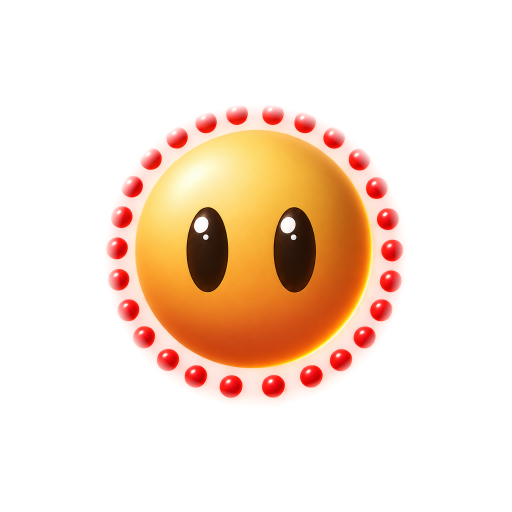
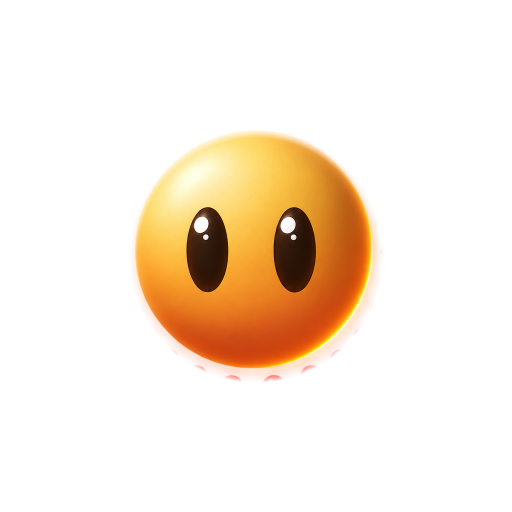
sun: four layers, and the thinking before the spending
'בוא נחשוב במסודר לפני שנותנים ל higg לעבוד עליהם'

THE DISTINCTION THAT DECIDES WHERE THE CREDITS GO: a rendered animation is a
FILM. It plays the same every time, cannot know what the person just did, and
cannot be interrupted without a cut. Code moving the layers we already have can
respond, lag, be interrupted, and point at what was touched.

His four ideas split straight down that line and three fall on the free side:

  rings trailing him   RESPONSIVE. What they do depends on what the body is
                       doing now, which depends on what the user did. And it is
                       not a delay you commission - it is one number in a
                       spring. The body chases the pointer, ring 1 chases the
                       BODY, ring 2 chases ring 1. Nothing is told to wait.
  thinking, each ring
  turning its own way  A fixed loop, so it could be rendered - but CSS does it
                       in four lines AND it can start and stop with the real
                       thinking instead of a timer.
  tapping him          Responsive by definition.
  coming out of a
  place on the page    A fixed sequence with no dependence on the user. THE ONE
                       WORTH PAYING FOR.

THE RENDER CUTS INTO FOUR LAYERS and the boundaries are measured, not chosen.
Sampling a whole circle at each radius of sun-30 gives peaks at 278, 335 and 396
with troughs between; the cuts at 245, 311, 365 and 430 fall in the troughs. The
[…]

Changed region(s): [[0.1875, 0.1875, 0.8125, 0.7812]]

diff --git a/dev/look/sun-plan.html b/dev/look/sun-plan.html
@@ -1,0 +1,256 @@
+<!doctype html>
+<html lang="he" dir="rtl">
+<meta charset="utf-8">
+<title>השמש — מה להנפיש, ואיפה</title>
+<meta name="viewport" content="width=device-width,initial-scale=1">
+<!--
+  THINKING BEFORE SPENDING, which is what was asked for.
+
+  THE ONE DISTINCTION THAT DECIDES EVERYTHING: a rendered animation is a FILM.
+  It plays the same way every time, it cannot know what the person just did, and
+  it cannot be interrupted without a cut. Code moving the layers we already have
+  can respond, can lag, can be interrupted, and can point at what was touched.
+
+  His four ideas split straight down that line, and three of the four fall on
+  the free side. The rings trailing a moment behind him is not a delay you
+  commission - it is one number in a spring. Each ring turning its own way while
+  he thinks is four lines of CSS. Tapping him is responsive by definition.
+
+  Only the fourth - coming out of a place on the page - is a fixed sequence that
+  happens the same way every time, and that is the one worth paying for.
+
+  THE RENDER CUTS INTO FOUR LAYERS, measured rather than chosen. Sampling a full
+  circle at each radius of sun-30: the body and its glow to 248, then peaks at
+  278, 335 and 396 with troughs between them. Cuts at 245, 311, 365 and 430 fall
+  in those troughs, and the four layers' alpha sums back to the original at
+  every radius tested.
+-->
+<link rel="preconnect" href="https://fonts.googleapis.com">
+<link rel="preconnect" href="https://fonts.gstatic.com" crossorigin>
+<link href="https://fonts.googleapis.com/css2?family=Assistant:wght@400;600;700;800&display=swap" rel="stylesheet">
+<style>
+  :root{--ground:#e9e7e3;--ink:#433c38;--muted:#675f57;
+    --nu-lit:rgba(255,255,255,.95);--nu-shade:rgba(176,168,156,.44);
+    --nu-shade-soft:rgba(176,168,156,.28)}
+  *{box-sizing:border-box;margin:0}
+  html,body{background:#dedbd6;color:var(--ink);
+    font:400 15px/1.55 Assistant,"Segoe UI",system-ui,sans-serif}
+  .wrap{max-width:1180px;margin:0 auto;padding:30px 24px 70px}
+  h1{font-size:25px;font-weight:800;letter-spacing:-.012em}
+  h2{font-size:17px;font-weight:800;margin:36px 0 6px}
+  h3{font-size:14px;font-weight:800;margin:0 0 3px}
+  p{font-size:13.5px;line-height:1.86;color:var(--muted);max-width:88ch}
+  p b{color:var(--ink)}
+  p+p{margin-top:9px}
+  code{font-size:12.5px;background:rgba(176,168,156,.22);padding:1px 5px;border-radius:5px;
+    direction:ltr;display:inline-block}
+  .lead{margin-top:10px}
+  table{border-collapse:collapse;margin-top:12px;font-size:13px;width:100%}
+  th,td{text-align:right;padding:9px 11px;border-bottom:1px solid rgba(176,168,156,.34);
+    vertical-align:top;line-height:1.66}
+  th{font-weight:800;font-size:12px;color:var(--muted)}
+  td b{color:var(--ink)}
+  .tag{display:inline-block;font-size:10.5px;font-weight:800;border-radius:20px;padding:2px 9px;
+    white-space:nowrap}
+  .free{background:rgba(124,194,148,.3);color:#2f6b45}
+  .paid{background:rgba(236,155,129,.34);color:#9b4324}
+  .demos{display:grid;gap:14px;margin-top:14px;
+    grid-template-columns:repeat(auto-fit,minmax(248px,1fr))}
+  .demo{border-radius:20px;background:var(--ground);padding:15px;
+    box-shadow:-3px -3px 8px var(--nu-lit),4px 5px 12px var(--nu-shade-soft)}
+  .demo .cap{font-size:11.5px;line-height:1.62;color:var(--muted);margin:3px 0 10px;min-height:3.3em}
+  .stage{position:relative;height:210px;border-radius:15px;background:var(--ground);
+    overflow:hidden;cursor:pointer;display:grid;place-items:center;
+    box-shadow:inset 2px 3px 7px var(--nu-shade-soft),inset -2px -2px 6px var(--nu-lit)}
+  .sun{position:relative;width:132px;height:132px}
+  .sun img{position:absolute;inset:0;width:100%;height:100%;display:block;
+    will-change:transform}
+  .hint{font-size:10.5px;font-weight:800;color:#8d857b;text-align:center;margin-top:7px}
+  .niche{position:absolute;width:104px;height:104px;border-radius:50%;background:var(--ground);
+    box-shadow:inset 5px 6px 12px var(--nu-shade),inset -4px -4px 10px var(--nu-lit)}
+  .lip{position:absolute;width:104px;height:52px;border-radius:0 0 52px 52px;
+    background:var(--ground);z-index:2;
+    box-shadow:inset 0 2px 0 rgba(255,255,255,.92),0 4px 9px -3px var(--nu-shade-soft)}
+  @keyframes spin-cw  {to{transform:rotate(360deg)}}
+  @keyframes spin-ccw {to{transform:rotate(-360deg)}}
+  .think .r1{animation:spin-cw  7s linear infinite}
+  .think .r2{animation:spin-ccw 11s linear infinite}
+  .think .r3{animation:spin-cw  17s linear infinite}
+  @media (prefers-reduced-motion:reduce){.sun img{animation:none!important}}
+</style>
+
+<div class="wrap">
+  <h1>השמש — מה להנפיש, ואיפה</h1>
+
+  <p class="lead">
+    <b>ארבע הדוגמאות שלך הן לא אותו סוג דבר, וזה מה שמכריע לאן הקרדיטים הולכים.</b>
+    הנפשה מרונדרת היא <b>סרט</b>: היא רצה אותו דבר בכל פעם, היא לא יודעת מה
+    המשתמש עשה רגע לפני, ואי אפשר לקטוע אותה בלי חיתוך. קוד שמזיז את השכבות
+    שכבר יש לנו יכול להגיב, לאחר, להיקטע, ולהצביע על מה שנגעת בו.
+  </p>
+  <p>
+    <b>שלוש מהארבע נופלות בצד שלא עולה כלום</b> — והטבעות שמאחרות אחריו הן לא
+    השהיה שמזמינים, הן <b>מספר אחד בתוך קפיץ</b>.
+  </p>
+
+  <h2>ארבע ההצעות שלך, ממוינות</h2>
+  <table>
+    <tr><th>ההצעה</th><th>למה היא שייכת לשם</th><th></th></tr>
+    <tr><td><b>הטבעות מאחרות אחריו</b></td>
+      <td>הן צריכות לדעת מה הגוף עושה <b>עכשיו</b>, וזה תלוי במה שאתה עשית. סרט
+        לא יכול. בקוד זה קפיץ אחד לגוף וקפיץ רך יותר לכל טבעת — <b>האיחור הוא
+        פיזיקה, לא עיכוב</b>.</td>
+      <td><span class="tag free">בלי קרדיטים</span></td></tr>
+    <tr><td><b>כשהוא חושב — כל מעגל לכיוון אחר</b></td>
+      <td>לולאה קבועה, אז אפשר גם לרנדר — אבל CSS עושה את זה בארבע שורות,
+        <b>ובקוד זה מתחיל ונפסק עם המחשבה האמיתית</b> ולא לפי טיימר.</td>
+      <td><span class="tag free">בלי קרדיטים</span></td></tr>
+    <tr><td><b>לוחצים עליו וקורה משהו</b></td>
+      <td>תגובתי בהגדרה. אין מה לדון.</td>
+      <td><span class="tag free">בלי קרדיטים</span></td></tr>
+    <tr><td><b>מקום בדף שהוא יוצא ממנו</b></td>
+      <td>רצף קבוע שקורה אותו דבר בכל פעם, ו<b>אין לו תלות במשתמש</b>. זה הסוג
+        היחיד מהארבעה ששווה לשלם עליו.</td>
+      <td><span class="tag paid">כאן הקרדיטים</span></td></tr>
+  </table>
+
+  <h2>וזה עובד — לא טענה, הנה הם</h2>
+  <p>
+    הרנדר נחתך <b>לארבע שכבות</b>: הגוף, ושלוש הטבעות בנפרד. הגבולות נמדדו ולא
+    נבחרו — דגימה של מעגל שלם בכל רדיוס נותנת שיאים ב‑278, 335 ו‑396 עם שקעים
+    ביניהם, והחיתוכים נופלים בשקעים. <b>האלפא של ארבע השכבות מסתכמת למקור בכל
+    רדיוס שנבדק.</b>
+  </p>
+  <div class="demos" id="demos"></div>
+
+  <h2>איפה הוא יכול לתפוס מקום — נספר מהקוד</h2>
+  <p>
+    אמרת שלא רק בספלאשים. <b>הנה מה שכבר קיים באפליקציה</b>, לא מה שאפשר להמציא:
+  </p>
+  <table>
+    <tr><th>מקום</th><th>כמה</th><th>למה דווקא שם</th></tr>
+    <tr><td><b>רגעי המתנה</b></td><td><b>13</b></td>
+      <td><code>anBusy askBusy closetBusy coachBusy estBusy fdbAIBusy gemBusy picBusy
+        planBusy sayBusy scanBusy vlCovBusy wkRevBusy</code> — ו<b>שש אוצר מילים
+        שונות</b> למה שקורה: ״חושב…״, ״טוען״, ״מחפש…״, ״מכין״, ״רגע״, ״בודק״.
+        <b>זה המקום הכי טוב שלו באפליקציה</b>: המתנה היא בדיוק מה שדמות קונה.</td></tr>
+    <tr><td><b>מצבים ריקים</b></td><td><b>8</b></td>
+      <td><code>me-empty jrnl-empty wkr-empty vb-empty tpl-empty pp-empty</code> —
+        מסך ריק הוא ההזדמנות הכי טבעית לדמות, וכרגע כולם טקסט.</td></tr>
+    <tr><td><b>ספלאש של אזור</b></td><td><b>10</b></td>
+      <td>כבר בנוי, וכבר ראית אותו עובד.</td></tr>
+    <tr><td><b>האייקון</b></td><td>1</td><td>נעשה.</td></tr>
+  </table>
+
+  <h2>הדבר שהורג דמויות</h2>
+  <p>
+    שלושים ואחד מקומות זה הרבה, ו<b>דמות שמופיעה בכל מקום מפסיקה להיות דמות
+    והופכת לרעש</b>. לפני שנכניס אותו לשלושים ואחד, צריך <b>כלל מתי הוא לא
+    מופיע</b> — והכלל הזה חשוב יותר מכל אנימציה שנזמין.
+  </p>
+  <p>
+    ההצעה שלי: <b>הוא מופיע כשהמשתמשת מחכה לנו או כשאין לה מה לראות.</b> לא
+    כשהיא עסוקה, לא כשהיא קוראת, ולא פעמיים באותו מסך.
+  </p>
+
+  <h2>מה הייתי מזמין, ומה לא</h2>
+  <p>
+    <b>רק רצפים קבועים</b>, ורק אחרי שהמתקן של ארבע השכבות הוכיח את עצמו — כי אם
+    הוא מחזיק, רוב הרשימה לא עולה כלום. ההזמנה שאני מציע היא <b>אחת</b>: היציאה
+    מהכפתור, שתשמש בכל מקום שבו הוא מגיע. <b>כל השאר הוא קוד על מה שכבר יש.</b>
+  </p>
+</div>
+
+<script>
+var L = ['sun-body','sun-r1','sun-r2','sun-r3'];
+function sunHTML(){
+  return '<div class="sun">' + L.map(function(n, i){
+    return '<img class="' + (i ? 'r'+i : 'body') + '" src="../assets/' + n + '.png" alt="">';
+  }).join('') + '</div>';
+}
+
+var DEMOS = [
+  {k:'lag', t:'הטבעות מאחרות אחריו',
+   c:'<b>הזז את העכבר על הבמה.</b> הגוף רודף אחריך בקפיץ אחד, וכל טבעת רודפת אחרי זאת שבפנים בקפיץ רך יותר. <b>אף אחת לא קיבלה השהיה.</b>',
+   hint:'הזז את העכבר'},
+  {k:'think', t:'חושב — כל מעגל לכיוון אחר',
+   c:'שבע, אחת־עשרה ושבע־עשרה שניות, לסירוגין. <b>ארבע שורות CSS</b>, ובאפליקציה זה יתחיל וייפסק עם המחשבה האמיתית.',
+   hint:'זה רץ מעצמו'},
+  {k:'tap', t:'לוחצים עליו',
+   c:'<b>לחץ.</b> הוא נמעך, והטבעות נדחפות החוצה ומתאוששות — אחת אחרי השנייה, לא ביחד.',
+   hint:'לחץ עליו'},
+  {k:'niche', t:'יוצא מהכפתור',
+   c:'<b>זה היחיד שהייתי מזמין.</b> כאן הוא מוצג בגס כדי שתראה את הרעיון — רצף קבוע, אותו דבר בכל פעם.',
+   hint:'לחץ שוב'}
+];
+
+var host = document.getElementById('demos');
+DEMOS.forEach(function(D){
+  var d = document.createElement('div'); d.className = 'demo';
+  d.innerHTML = '<h3>' + D.t + '</h3><div class="cap">' + D.c + '</div>' +
+    '<div class="stage ' + D.k + '">' +
+      (D.k === 'niche' ? '<div class="niche"></div>' : '') +
+      sunHTML() +
+      (D.k === 'niche' ? '<div class="lip"></div>' : '') +
+    '</div><div class="hint">' + D.hint + '</div>';
+  host.appendChild(d);
+  wire(D.k, d.querySelector('.stage'));
+});
+
+/* ── one spring, four followers ──
+   a = (target - x)*k - v*d;  v += a*dt;  x += v*dt
+   The body chases the pointer. Ring 1 chases THE BODY, ring 2 chases ring 1,
+   ring 3 chases ring 2 - each a little softer than the last. Nothing is told
+   to wait; the trailing is what a chain of springs does. */
+function wire(kind, stage){
+  var sun = stage.querySelector('.sun');
+  var imgs = [].slice.call(sun.querySelectorAll('img'));
+  var K = [90, 52, 40, 31], D = [11, 9.0, 8.2, 7.4];
+  var x = [0,0,0,0], y = [0,0,0,0], vx = [0,0,0,0], vy = [0,0,0,0];
+  var tx = 0, ty = 0, sq = 0, vsq = 0, push = [0,0,0], vpush = [0,0,0];
+
+  if (kind === 'lag'){
+    stage.addEventListener('pointermove', function(e){
+      var r = stage.getBoundingClientRect();
+      tx = (e.clientX - r.left - r.width/2) * 0.34;
+      ty = (e.clientY - r.top - r.height/2) * 0.34;
+    });
+    stage.addEventListener('pointerleave', function(){ tx = 0; ty = 0; });
+  }
+  if (kind === 'tap'){
+    stage.addEventListener('pointerdown', function(){
+      sq = -0.17; for (var i = 0; i < 3; i++) push[i] = 0.17 - i*0.03;
+    });
+  }
+  if (kind === 'niche'){
+    var play = function(){ y[0] = 62; vy[0] = -150;
+      for (var i=1;i<4;i++){ y[i] = 62; vy[i] = -120; } };
+    stage.addEventListener('pointerdown', play);
+    play();
+  }
+  if (kind === 'think') return;        // pure CSS, nothing to drive
+
+  var last = null;
+  requestAnimationFrame(function step(t){
+    if (last === null) last = t;
+    var dt = Math.min(0.05, (t - last)/1000); last = t;
+    for (var i = 0; i < 4; i++){
+      var gx = i === 0 ? tx : x[i-1], gy = i === 0 ? ty : y[i-1];
+      if (kind === 'niche'){ gx = 0; gy = 0; }
+      vx[i] += ((gx - x[i])*K[i] - vx[i]*D[i]) * dt;  x[i] += vx[i]*dt;
+      vy[i] += ((gy - y[i])*K[i] - vy[i]*D[i]) * dt;  y[i] += vy[i]*dt;
+    }
+    vsq += ((0 - sq)*140 - vsq*12) * dt; sq += vsq*dt;
+    for (var j = 0; j < 3; j++){
+      vpush[j] += ((0 - push[j])*110 - vpush[j]*10) * dt; push[j] += vpush[j]*dt;
+    }
+    imgs.forEach(function(im, i){
+      var s = i === 0 ? (1 + sq) : (1 + (push[i-1] || 0));
+      im.style.transform = 'translate(' + x[i].toFixed(2) + 'px,' + y[i].toFixed(2) +
+        'px) scale(' + s.toFixed(3) + ')';
+    });
+    requestAnimationFrame(step);
+  });
+}
+</script>
+</html>

diff --git a/dev/look/sun-splash.html b/dev/look/sun-splash.html
@@ -67,10 +67,14 @@
   .ps-w{display:inline-block;opacity:0;animation:ps-word .62s cubic-bezier(.2,.9,.3,1) both}
   @keyframes ps-word{from{opacity:0;transform:translateY(16px) scale(.94)}to{opacity:1;transform:none}}
 
-  /* ── the sun: two layers, one turns and one does not ── */
+  /* ── the sun: four layers. The body does not turn, and each ring turns at
+       its own rate, so they drift apart and together instead of moving as one
+       printed disc. ── */
   .sun{position:relative;width:118px;height:118px;flex:0 0 auto}
   .sun img{position:absolute;inset:0;width:100%;height:100%;display:block}
-  .sun .rings{animation:sun-spin 26s linear infinite}
+  .sun .r1{animation:sun-spin 22s linear infinite}
+  .sun .r2{animation:sun-spin 30s linear infinite}
+  .sun .r3{animation:sun-spin 40s linear infinite}
   .sun .body{animation:sun-breathe 3.4s ease-in-out infinite}
   @keyframes sun-spin{to{transform:rotate(360deg)}}
   @keyframes sun-breathe{0%,100%{transform:scale(1)}50%{transform:scale(1.035)}}
@@ -135,8 +139,10 @@ function splash(cls){
   return '<div class="stage ' + cls + '"><div class="plan-splash">' +
     '<div class="ps-glow"></div><div class="ps-in">' +
       '<div class="sun">' +
-        '<img class="rings" src="../assets/sun-rings.png" alt="">' +
-        '<img class="body"  src="../assets/sun-body.png"  alt="">' +
+        '<img class="rings r1" src="../assets/sun-r1.png" alt="">' +
+        '<img class="rings r2" src="../assets/sun-r2.png" alt="">' +
+        '<img class="rings r3" src="../assets/sun-r3.png" alt="">' +
+        '<img class="body"     src="../assets/sun-body.png" alt="">' +
       '</div>' +
       '<div class="ps-line">' + ws + '</div>' +
     '</div></div></div>';

diff --git a/dev/look/index.html b/dev/look/index.html
@@ -51,14 +51,14 @@
 <div class="wrap">
   <h1>דפי העיצוב</h1>
   <div class="sub">
-    54 דפים. <b>הרשימה נבנית מהתיקייה עצמה</b> — הגרסה הקודמת נכתבה ביד
+    55 דפים. <b>הרשימה נבנית מהתיקייה עצמה</b> — הגרסה הקודמת נכתבה ביד
     והפנתה ל‑8 מתוך 50, כך ש‑42 דפים היו ניתנים להגעה רק אם ידעת לנחש את שם
     הקובץ. <b>דף שאף אחד לא תיאר עדיין מופיע כאן</b>, עם הכותרת של עצמו ומקף
-    במקום ההסבר; 19 מתוך 54 יש להם הסבר.
+    במקום ההסבר; 19 מתוך 55 יש להם הסבר.
   </div>
 
   <section>
-    <h2>השמש — הדמות<span>24</span></h2>
+    <h2>השמש — הדמות<span>25</span></h2>
     <p class="blurb">מהחיפוש אחריה, דרך הגרסה הנבחרת, עד איך היא זזה ומה היא יודעת לעשות.</p>
     <div class="grid">
       <a class="card" href="sun-attract.html">
@@ -160,6 +160,11 @@
         <b>שמש — שתים־עשרה</b>
         <i class="none">—</i>
         <code>sun.html</code>
+      </a>
+      <a class="card bare" href="sun-plan.html">
+        <b>השמש — מה להנפיש, ואיפה</b>
+        <i class="none">—</i>
+        <code>sun-plan.html</code>
       </a>
       <a class="card bare" href="sun-rich.html">
         <b>השמש — האם SVG נושא את החומר</b>
